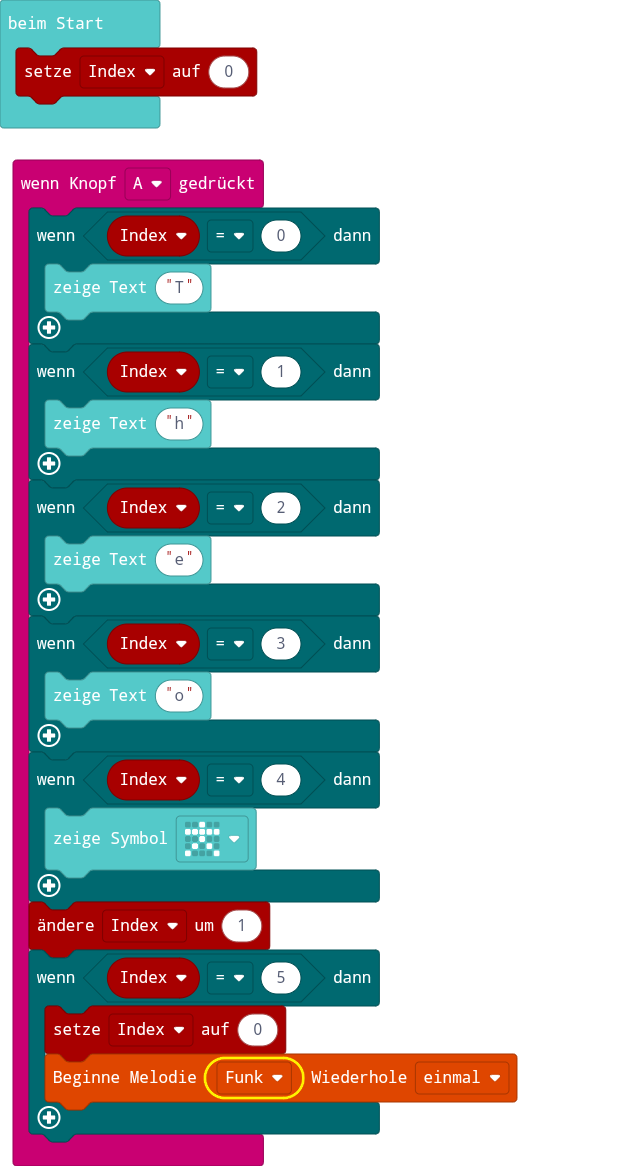
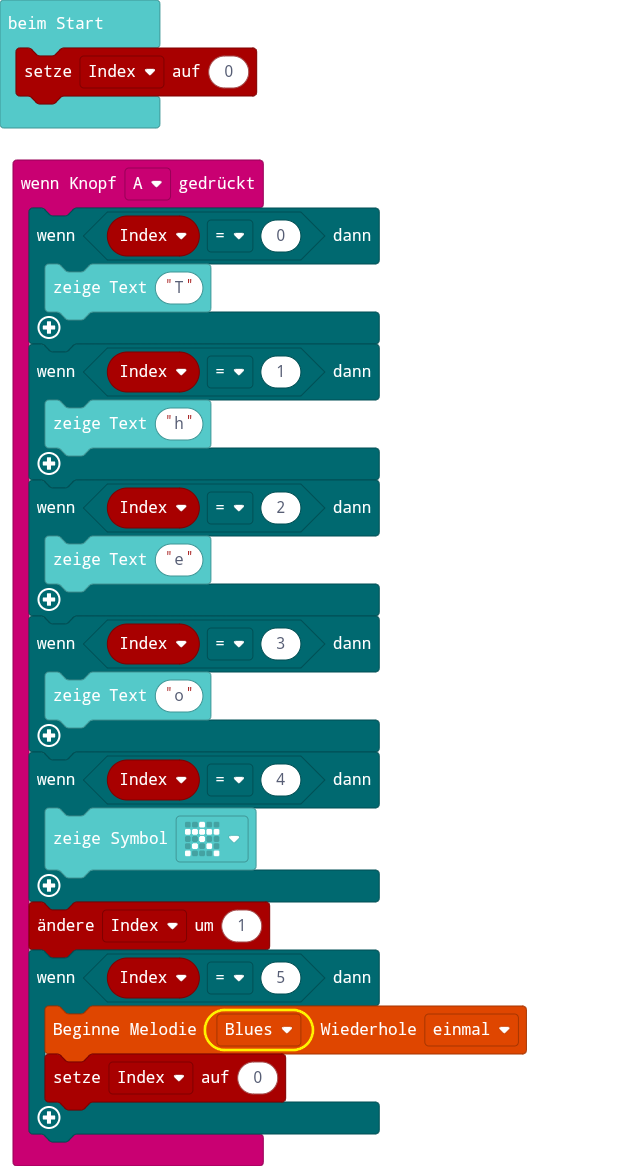
Aktualisiere main.blocks, main.ts

diff --git a/main.ts b/main.ts
@@ -16,8 +16,8 @@ input.onButtonPressed(Button.A, function () {
     }
     Index += 1
     if (Index == 5) {
+        music.startMelody(music.builtInMelody(Melodies.Blues), MelodyOptions.Once)
         Index = 0
-        music.startMelody(music.builtInMelody(Melodies.Funk), MelodyOptions.Once)
     }
 })
 let Index = 0
